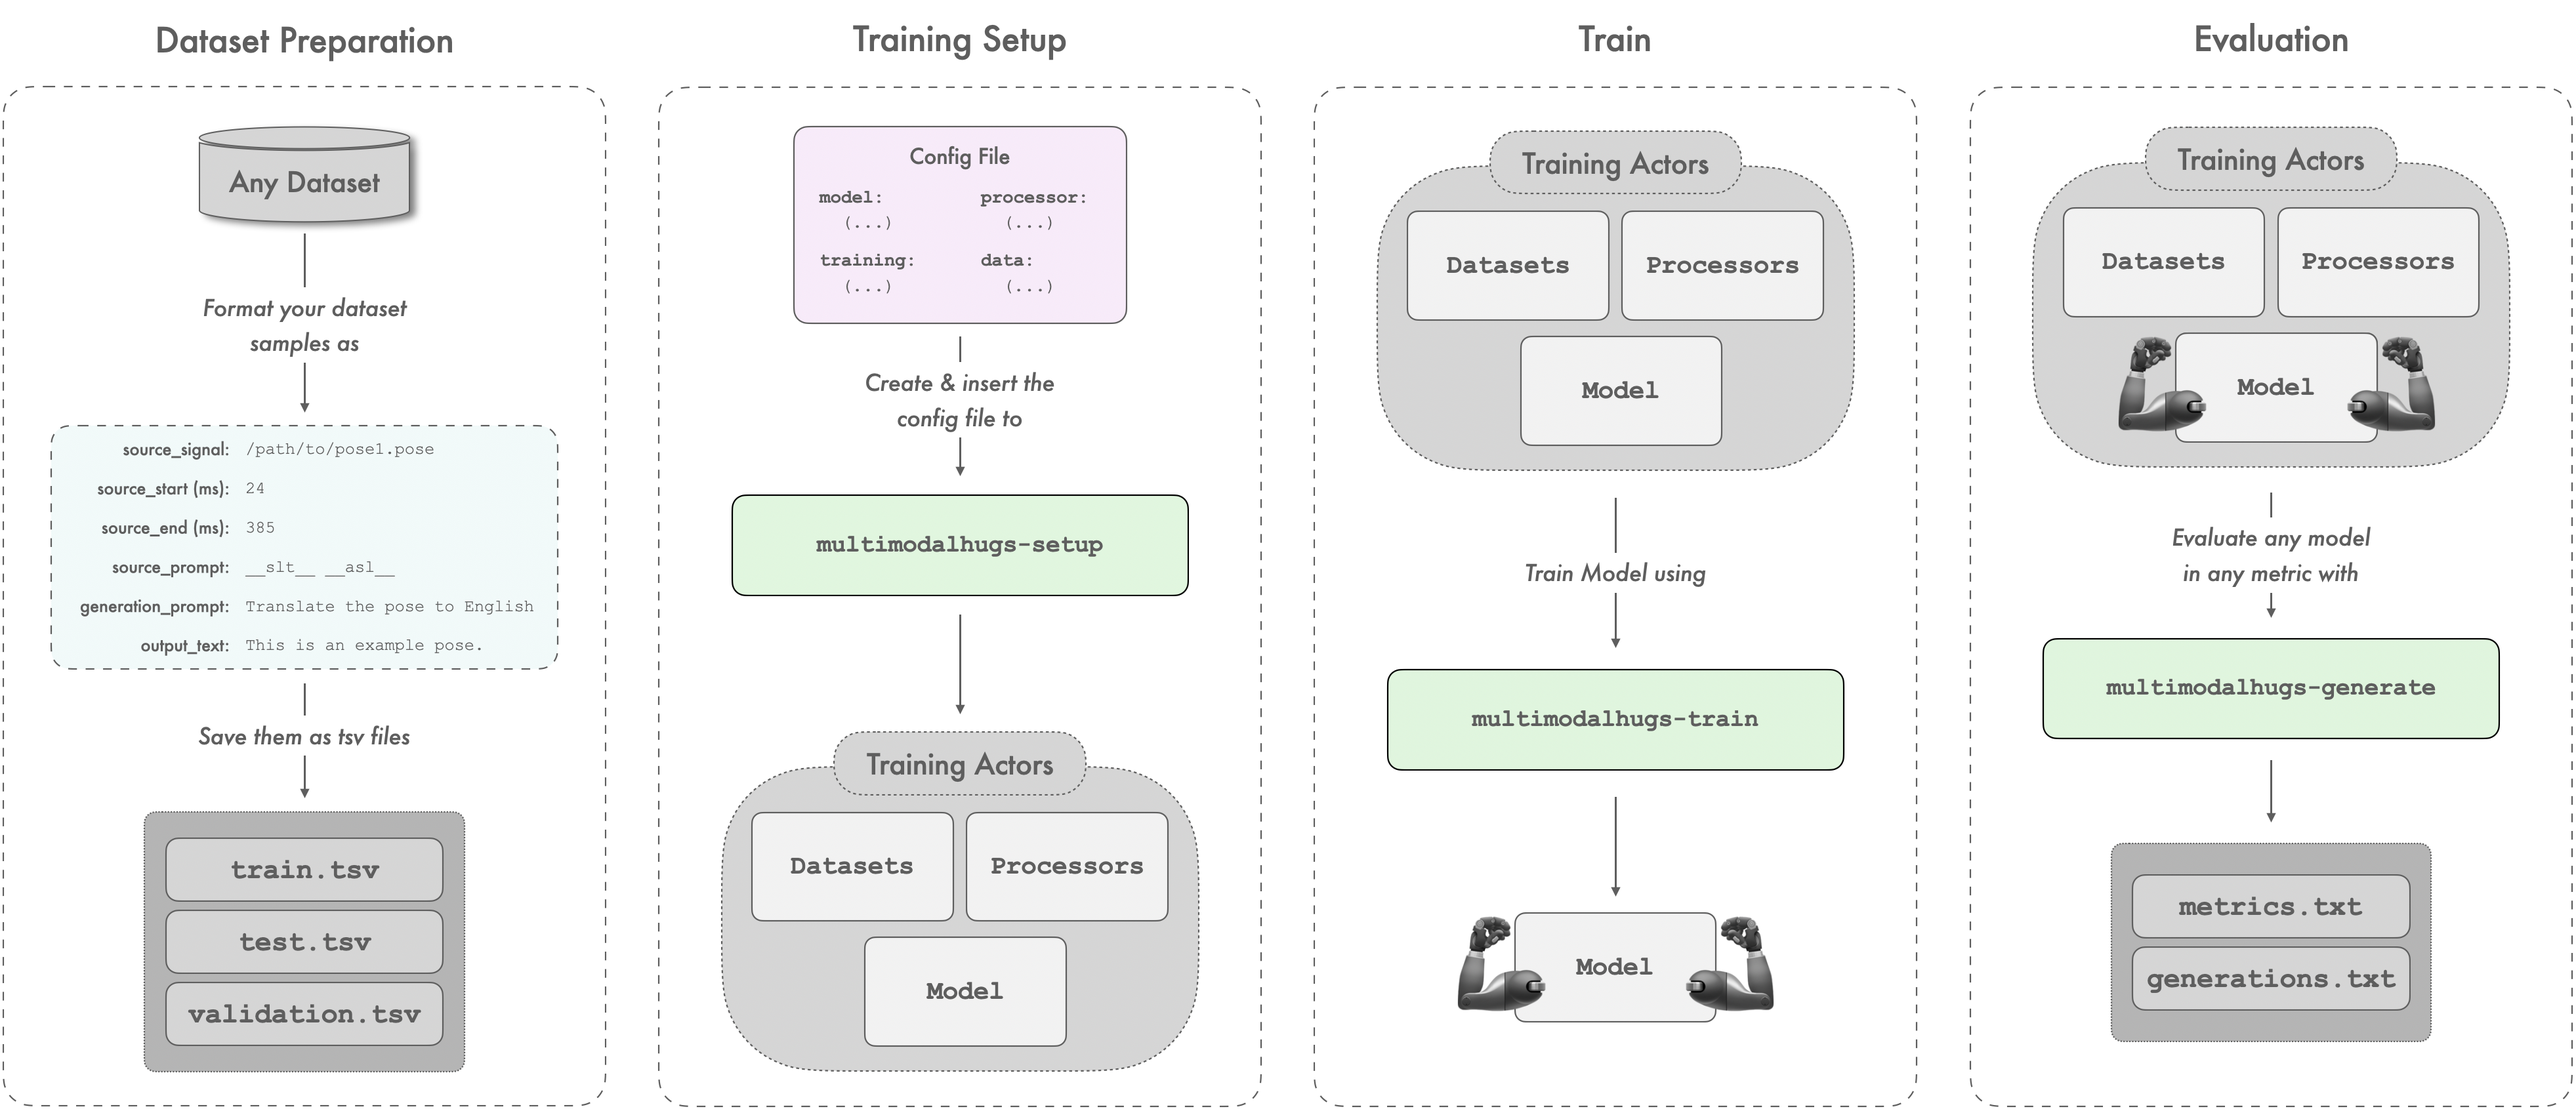
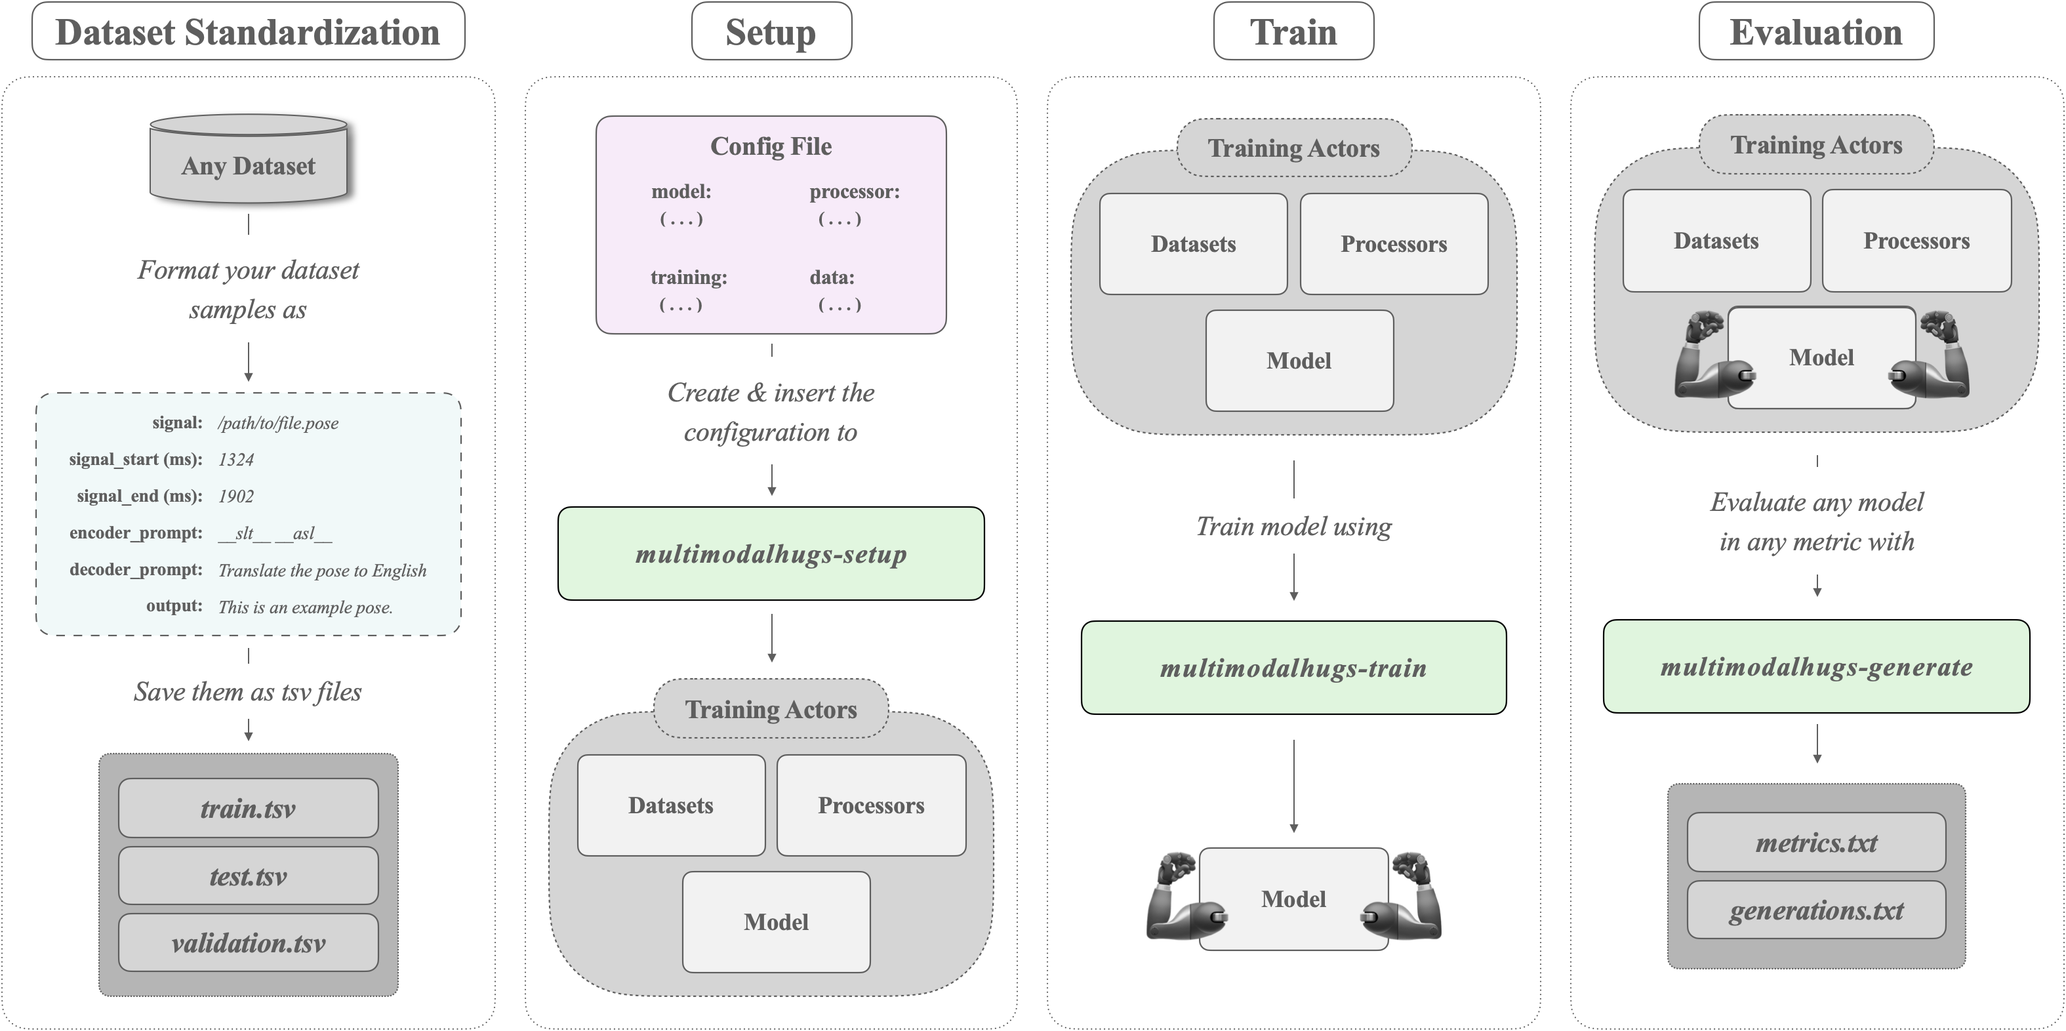
[UPD/FIX] Minor changes and corrections to the README.md and other documentation.

diff --git a/scripts/generate_model_docs.py b/scripts/generate_model_docs.py
@@ -146,3 +146,7 @@ def main():
 
 if __name__ == "__main__":
     main()
+
+
+cp /Users/sant/Desktop/Future_training_workflow.png /Users/sant/repositories/multimodalhugs/docs/media/Future_training_workflow.png
+cp /Users/sant/Desktop/current_training_workflow.pdf /Users/sant/repositories/multimodalhugs/docs/media/current_training_workflow.pdf

diff --git a/README.md b/README.md
@@ -2,17 +2,21 @@
   <h1>🎨 MultiModalHugs</h1>
 </div>
 
-**MultimodalHugs** is a streamlined extension of [Hugging Face](https://huggingface.co/) designed for training, evaluating, and deploying multimodal AI models. Built atop Hugging Face’s powerful ecosystem, MultimodalHugs integrates seamlessly with standard pipelines while providing additional functionalities to handle multilingual and multimodal inputs—reducing boilerplate and simplifying your codebase.
+**MultimodalHugs** is a lightweight, modular framework built on top of [Hugging Face](https://huggingface.co/) for training, evaluating, and deploying **multimodal AI models** with minimal code.
+
+It supports diverse input modalities—including text, images, video, and pose sequences—and integrates seamlessly with the Hugging Face ecosystem (Trainer API, model hub, `evaluate`, etc.).
 
 ---
 
 ## Key Features
 
-- **Unified Framework**: Train and evaluate multimodal models (e.g., image-to-text, pose-to-text, signwriting-to-text) using a consistent API.
-- **Minimal Code Changes**: Leverage Hugging Face’s pipelines with only minor modifications.
-- **Data in TSV**: Avoid the complexity of numerous hyperparameters by maintaining data splits in `.tsv` files—easily specify prompts, languages, targets, or other attributes in dedicated columns.
-- **Modular Design**: Use or extend any of the components (datasets, models, modules, processors) to suit your custom tasks.
+- ✅ **Minimal boilerplate**: Standardized TSV format for datasets and YAML-based configuration.
+- 🔁 **Reproducible pipelines**: Consistent setup for training, evaluation, and inference.
+- 🔌 **Modular design**: Easily extend or swap models, processors, and modalities.
+- 📦 **Hugging Face native**: Built to work out-of-the-box with existing models and tools.
 - **Examples Included**: Refer to the `examples/` directory for guided scripts, configurations, and best practices.
+  
+Whether you're working on sign language translation, image-to-text, or token-free language modeling, MultimodalHugs simplifies experimentation while keeping your codebase clean.
 
 For more details, refer to the [documentation](docs/README.md).
 
@@ -49,16 +53,19 @@ To set up, train, and evaluate a model, follow these steps:
 
 ### 1. Dataset Preparation
 
-For each partition (train, val, test), create a TSV file that captures essential sample details (input paths, timestamps, prompts, target texts) for consistency.
+For each partition (train, val, test), create a TSV file that captures essential sample details for consistency.
 
 #### Metadata File Requirements
 
 The `metadata.tsv` files for each partition must include the following fields:
 
-- `signal`: The signal text for the translation from which the images will be created / The path of the images to be uploaded (supports `.jpg`, `.jpeg`, `.png`, `.bmp`, `.tiff`, `.tif`, `.npy`)
-- `encoder_prompt`: A text string (e.g., `__vhe__`) that helps the model distinguish the signal language or modality. Can be empty if not used.
-- `decoder_prompt`: A text prompt appended during decoding to guide the model’s generation. Useful for specifying style or language; can be empty if not used.
-- `output`: The target text for translation.
+- `signal`: The primary input to the model, either as raw text or a file path pointing to a multimodal resource (e.g., an image, pose sequence, or audio file).
+- `signal_start`: Start timestamp (commonly in milliseconds) of the input segment. Can be left empty or `0` if not required by the setup.
+- `signal_end`: End timestamp (commonly in milliseconds) of the input segment. Can be left empty or `0` if not required by the setup.
+- `encoder_prompt`: An optional text field providing additional context to the input; this may include instructions (e.g., `Translate the pose to English`), modality tags (e.g., `__asl__` for American Sign Languge, ASL), or any text relevant to the task.
+- `decoder_prompt`: An optional textual prompt used during decoding to guide the model’s output generation, corresponding to Hugging Face’s `decoder_input_ids`.
+- `output`: The expected textual output corresponding to the input signal.
+
 
 ### 2. Setup Datasets, Model, and Processors
 
@@ -69,14 +76,21 @@ multimodalhugs-setup --modality {pose2text,signwriting2text,image2text} --config
 ### 3. Train a Model
 
 ```bash
-multimodalhugs-train --task translation --config_path CONFIG_PATH
+multimodalhugs-train --task <task_name> --config_path CONFIG_PATH
 ```
 
 ### 4. Generate Outputs with a Trained Model
 
 ```bash
-multimodalhugs-generate --task translation --config_path CONFIG_PATH --model_name_or_path MODEL_PATH --processor_name_or_path PROCESSOR_PATH --dataset_dir DATASET_PATH --output_dir OUTPUT_DIR
+multimodalhugs-generate --task <task_name> \
+      --metric_name METRIC_NAME \
+      --config_path CONFIG_PATH \
+      --model_name_or_path MODEL_PATH \
+      --processor_name_or_path PROCESSOR_PATH \
+      --dataset_dir DATASET_PATH \
+      --output_dir OUTPUT_DIR
 ```
+
 
 For more details, refer to the [CLI documentation](docs/general/CLI.md).
 

diff --git a/docs/README.md b/docs/README.md
@@ -38,18 +38,18 @@ To set up, train and evaluate a model, follow these steps:
 ![Steps Overview](media/steps.png)
 
 ## 1. Dataset Preparation
-For each partition (train, val, test), create a TSV file that captures essential sample details (input paths, timestamps, prompts, target texts) for consistency. 
+For each partition (train, val, test), create a TSV file that captures essential sample details for consistency. 
 
 #### Metadata File Requirements
 
 The `metadata.tsv` files for each partition must include the following fields:
 
-- `signal`: The signal text for the translation from which the images will be created / The path of the images to be uploaded (currently with support for `.jpg`, `.jpeg`, `.png`, `.bmp`, `.tiff`, `.tif`, `.npy`)
+- `signal`: The primary input to the model, either as raw text or a file path pointing to a multimodal resource (e.g., an image, pose sequence, or audio file).
 - `signal_start`: Start timestamp (commonly in milliseconds) of the input segment. Can be left empty or `0` if not required by the setup.
 - `signal_end`: End timestamp (commonly in milliseconds) of the input segment. Can be left empty or `0` if not required by the setup.
-- `encoder_prompt`: A text string (e.g., `__vhe__`) that helps the model distinguish the signal language or modality. Can be empty if not used.
-- `decoder_prompt`: A text prompt appended during decoding to guide the model’s generation. Useful for specifying style or language; can be empty if not used.
-- `output`: The target text for translation.
+- `encoder_prompt`: An optional text field providing additional context to the input; this may include instructions (e.g., `Translate the pose to English`), modality tags (e.g., `__asl__` for American Sign Languge, ASL), or any text relevant to the task.
+- `decoder_prompt`: An optional textual prompt used during decoding to guide the model’s output generation, corresponding to Hugging Face’s `decoder_input_ids`.
+- `output`: The expected textual output corresponding to the input signal.
 
 > **Note:** If using a pretrained model, ensure you understand how the model expects the `decoder_prompt`. Some models, such as T5, automatically assume this prompt is always the `<pad>` token and prepend it by default. Therefore, explicitly specifying `<pad>`in this field is unnecessary and would result in unexpected behaviour.
 
@@ -60,12 +60,18 @@ The `metadata.tsv` files for each partition must include the following fields:
 
 ## 3. Train a model:
    ```bash
-   multimodalhugs-train --task translation --config_path CONFIG_PATH
+   multimodalhugs-train --task <task_name> --config_path CONFIG_PATH
    ```
 
 ## 4. Generate outputs with a trained model:
    ```bash
-   multimodalhugs-generate --task translation --metric_name METRIC_NAME --config_path CONFIG_PATH --model_name_or_path MODEL_PATH --processor_name_or_path PROCESSOR_PATH --dataset_dir DATASET_PATH --output_dir OUTPUT_DIR
+   multimodalhugs-generate --task <task_name> \
+        --metric_name METRIC_NAME \
+        --config_path CONFIG_PATH \
+        --model_name_or_path MODEL_PATH \
+        --processor_name_or_path PROCESSOR_PATH \
+        --dataset_dir DATASET_PATH \
+        --output_dir OUTPUT_DIR
    ```
 
 > **Note:** For more detailed information on each command, refer to the <a href="general/CLI.md">CLI documentation</a>.

diff --git a/docs/general/CLI.md b/docs/general/CLI.md
@@ -56,7 +56,7 @@ This command initiates training using Hugging Face's `Trainer`, supporting vario
 #### Usage:
 
 ```bash
-multimodalhugs-train --task {translation} [additional arguments...]
+multimodalhugs-train --task <task_name> [additional arguments...]
 ```
 
 #### Arguments:
@@ -67,7 +67,7 @@ multimodalhugs-train --task {translation} [additional arguments...]
 To view all available training options, run:
 
 ```bash
-multimodalhugs-train --task translation --help
+multimodalhugs-train --task <task_name> --help
 ```
 
 > **Note:** Refer to the [Hugging Face TrainingArguments documentation](https://huggingface.co/docs/transformers/v4.49.0/en/main_classes/trainer#transformers.TrainingArguments) for a complete list of training options.
@@ -82,7 +82,7 @@ MultimodalHugs Training CLI. Use --task to define the training objective.
 
 options:
   -h, --help            show this help message and exit
-  --task {translation}  Specify the training task (currently only "translation" is supported).
+  --task <task_name>  Specify the training task (currently only "translation" is supported).
   --config_path CONFIG_PATH
                         Path to the configuration file.
   --learning_rate LEARNING_RATE
@@ -100,28 +100,30 @@ This command is used for evaluation and generating predictions.
 #### Usage:
 
 ```bash
-multimodalhugs-generate --task {translation} [additional arguments...]
+multimodalhugs-generate --task <task_name> [additional arguments...]
 ```
 
 #### Arguments:
 
 - **--task** (*Required*): Specifies the evaluation task (currently only "translation" is supported).
-- **--config_path** (*Required*): Path to the YAML configuration file.
-- **--model_name_or_path** (*Required*): Path to the trained model.
-- **--processor_name_or_path** (*Required*): Path to the processor instance.
-- **--dataset_dir** (*Required*): Path to the dataset.
-- **--output_dir** (*Required*): Directory to save generated outputs.
+- **--config_path** (*Optional*): Path to the YAML configuration file.
+- **--model_name_or_path** (*Required*):\* Path to the trained model. 
+- **--processor_name_or_path** (*Required*):\* Path to the processor instance.
+- **--dataset_dir** (*Required*):\* Path to the dataset.
+- **--output_dir** (*Required*):\* Directory to save generated outputs.
+  
+  > **\*** This field can be either specified in the config or as argument
 
 To view all available options, run:
 
 ```bash
-multimodalhugs-generate --task translation --help
+multimodalhugs-generate --task <task_name> --help
 ```
 
 #### Example Help Output:
 
 ```bash
-usage: multimodalhugs-generate [-h] --task {translation} [additional arguments...]
+usage: multimodalhugs-generate [-h] --task <task_name> [additional arguments...]
 
 MultimodalHugs Generation CLI. Use --task to specify the generation objective.
 
